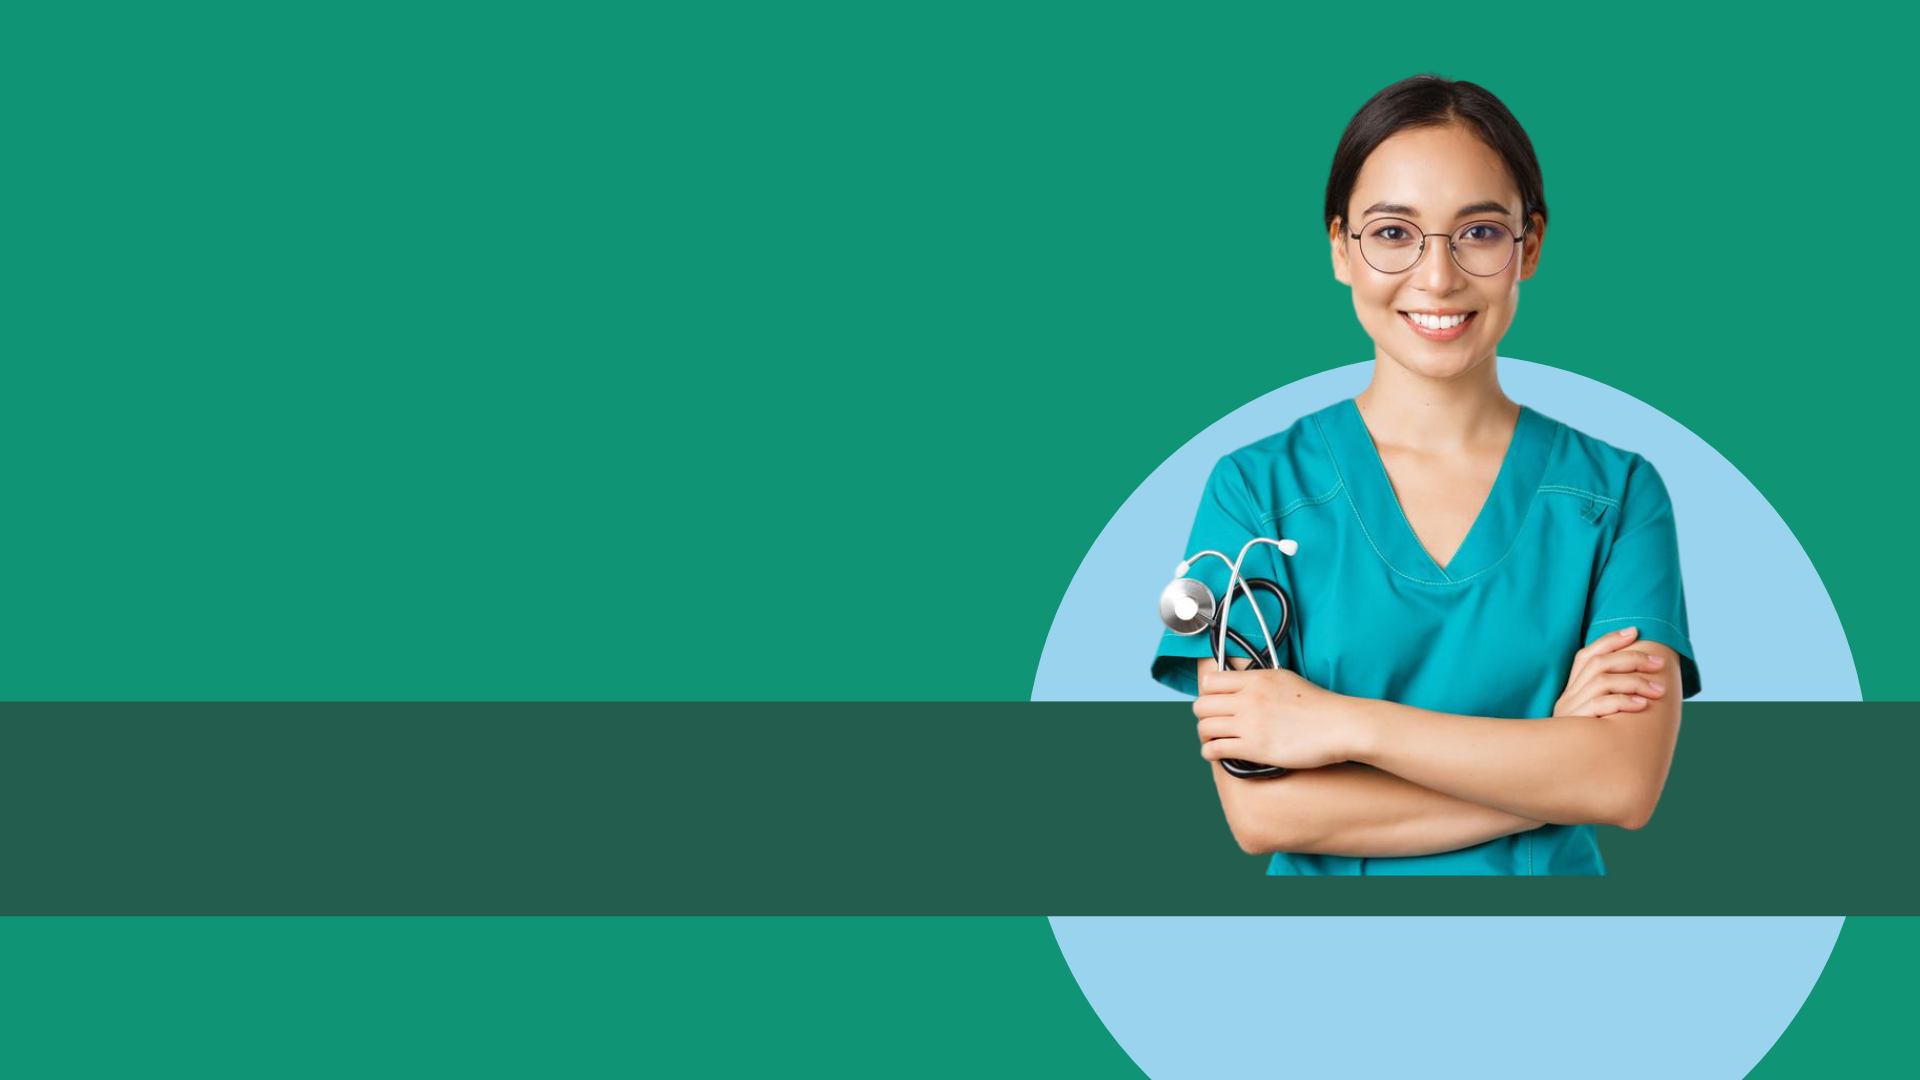
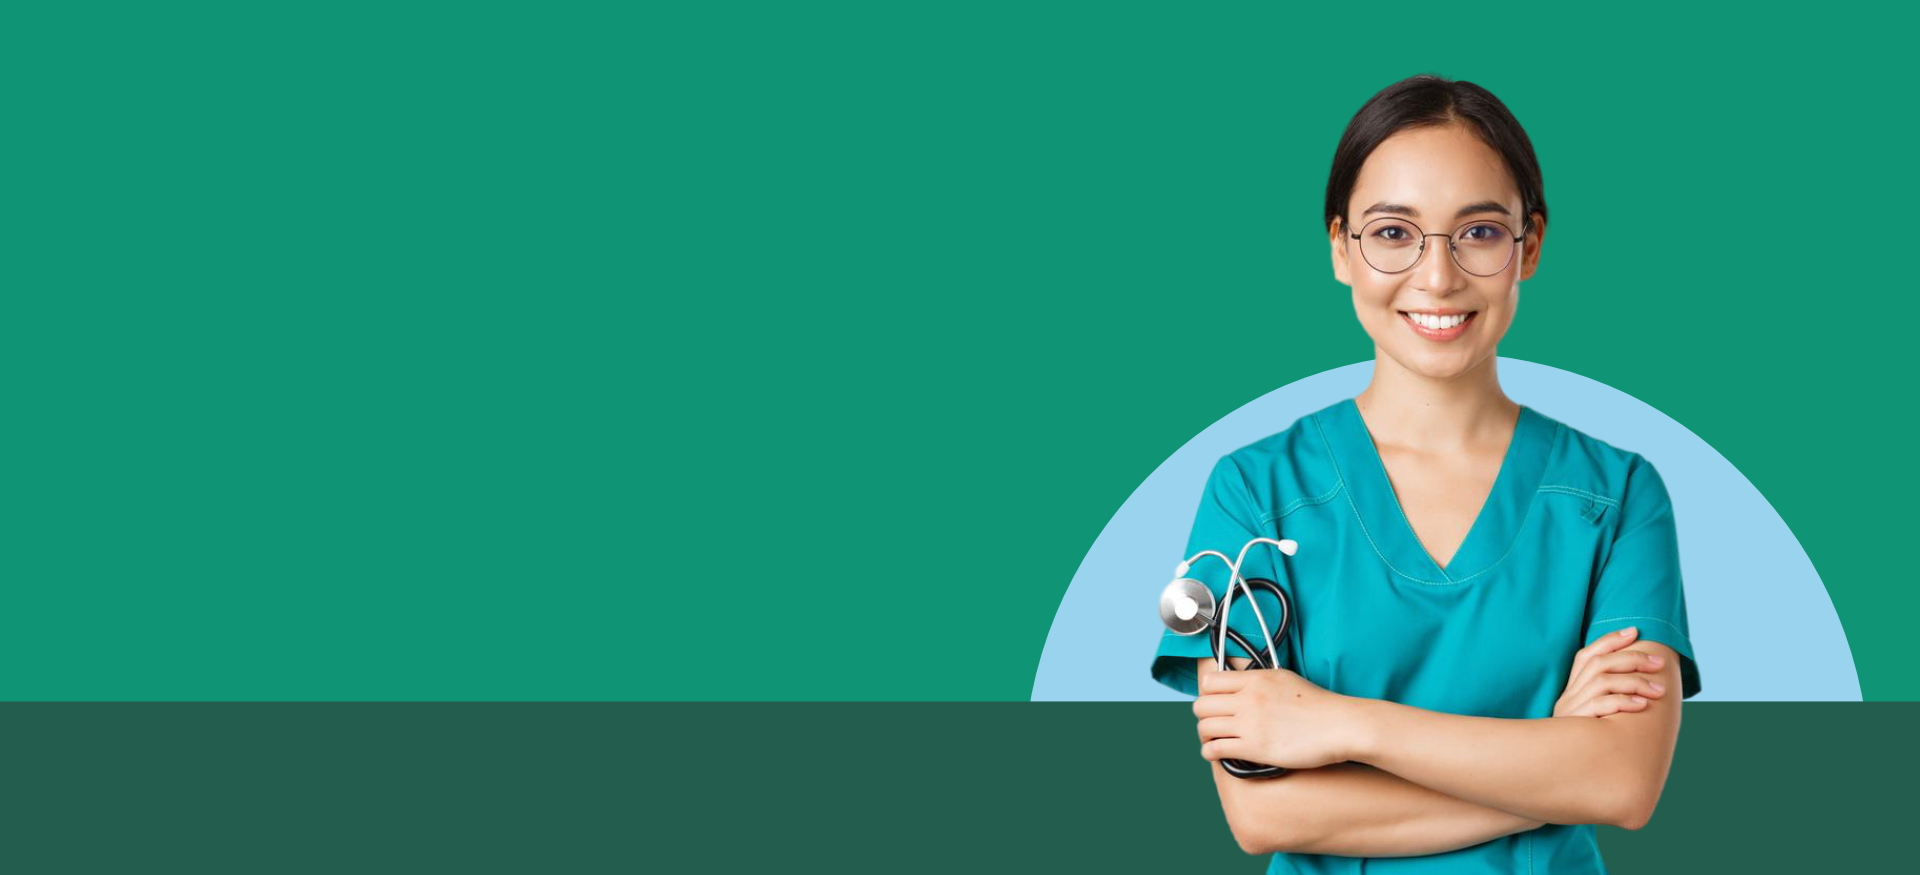
ajeitando home e pagpaciente

diff --git a/css/pagpaciente.css b/css/pagpaciente.css
@@ -4,10 +4,12 @@
     margin: 0;
     padding: 0;
     box-sizing: border-box;
+    
 }
 
 body {
     font-family: 'Vazirmatn';
+    width: 100vw;
 }
 
 .header {
@@ -95,13 +97,14 @@ body {
     margin: 2vw auto;
     text-align: center;  
     border-bottom: solid #244b42;
-    width: 20vw;
+    width: 100%;
     
 }
 
 .h2 h2 {
     font-weight: 900;
     font-size: 1.8em;
+    width: 100%;
 }
 
 .boneco {
@@ -122,50 +125,97 @@ body {
     margin: 1.5vw 1vw 1.5vw 1.5vw;
 }
 
-.enfermeira {
-    width: 40vw;
-    border: 3px solid #63B29F;
-    border-radius: 30px;
-    margin-left: 10vw;
+#enfermeiras{
+    width: 100vw;
     display: flex;
     justify-content: start;
     align-items: center;
-    
 }
+
+.enfermeira {
+    display: flex;
+    flex-direction: row;
+    justify-content: start;
+    align-items: center;
+    height: 8vw;
+    width: 40vw;
+    border: 3px solid #63B29F;
+    border-radius: 30px;
+    margin-left: 10vw; 
+}
+
+.enfermeira2 {
+    display: flex;
+    flex-direction: row;
+    justify-content: start;
+    align-items: center;
+    height: 8vw;
+    width: 40vw;
+    border: 3px solid #63B29F;
+    border-radius: 30px;
+    margin-left: 5vw;
+}
+
 
 .enfermeira img {
     position: relative;
     width: 5vw;
-    margin: 0.8vw;
+    margin: 1vw;
     border: 3px solid #244b42;
     
 }
 
-.coluna {
-    margin-left: 2vw;
-    display: flex;
-    flex-direction: column;
-    justify-content: start;
-    align-items: flex-start;
+.enfermeira2 img {
+    position: relative;
+    width: 5vw;
+    margin: 1vw;
+    border: 3px solid #244b42;
 }
 
+
 .enfermeira h4 {
-    width: 15vw;
+    width: 100%;
     font-size: 1.1em;
     height: 3vh;
+    margin-bottom: -1vw;
+}
+
+.enfermeira2 h4 {
+    width: 100%;
+    font-size: 1.1em;
+    height: 3vh;
+    margin-bottom: -1vw;
 }
 
 .enfermeira p {
-    margin-top: -1.4vw;
-    width: 15vw;
+    width: 100%;
     font-weight: 600;
     height: 3vh;
 }
 
+.enfermeira2 p {
+    width: 100%;
+    font-weight: 600;
+    height: 3vh;
+}
+
+
+
 .enfermeira button {
     color: #fff;
     width: 10vw;
-    margin-top: 0.1vw;
+    padding: 5px;
+    font-size: 0.75em;
+    background-color: #63B29F;
+    border: none;
+    outline: none;
+    border-radius: 30px;
+    cursor: pointer;
+}
+
+.enfermeira2 button {
+    color: #fff;
+    width: 10vw;
     padding: 5px;
     font-size: 0.75em;
     background-color: #63B29F;
@@ -183,4 +233,11 @@ body {
     text-align: center;
     background-color: #63B29F;
     border-radius: 20px;
+}
+.coluna {
+    margin-left: 2vw;
+    display: flex;
+    flex-direction: column;
+    justify-content: start;
+    align-items: flex-start;
 }

diff --git a/css/index.css b/css/index.css
@@ -72,28 +72,23 @@ a:active {
 }
 
 .logo-home{
-width: 250px;
+
 left: 9%;
 top: 3px;
 }
 
 .container-idosos{
-  min-width: 100vw;
   display: flex;
-  align-items: flex-start;
   margin-left: 14%;
   
 }
 .background-idosos {
-  margin-top: 4.5rem;
-  background-image: url('../images/fundinho.png');
-  background-repeat: no-repeat;
-  background-size: cover;
-  background-position: center center;
-  background-attachment: fixed;
-  min-width: 100vw;
-  height: 100%;
+  width: 100%;
+  height: 94vh;
+  background:  url('../images/fundinho.png');
+  transform: translateY(60px);
 }
+
 
 .background-idosos h3 {
   color: #ffff;
@@ -107,12 +102,13 @@ top: 3px;
 
 .container-dad {
   width: 38%;
-  height: 10%;
+  height: 5vw;
   background-color: #fff;
   border-radius: 40px;
   display: flex;
   margin-left: 16%;
   margin-top: 6%;
+  cursor: pointer;
 }
 
 .container-cuidador {
@@ -126,6 +122,7 @@ top: 3px;
   display: flex;
   justify-content: left;
   align-items: center;
+
 }
 
 .seta1 {
@@ -190,7 +187,6 @@ top: 3px;
   font-size: 1em;
   color: #1a1a0c;
   font-weight: 600;
-  border: none;
 }
 
 .container-local select {
@@ -205,13 +201,12 @@ top: 3px;
   font-size: 1em;
   color: #1a1a0c;
   font-weight: 600;
-  border: no;
 }
 
 .escrituras {
   display: flex;
   justify-content: center;
-  align-items: center;
+  align-items: baseline;
   width: 81vw;
   height: 10vw;
   margin-left: 8vw;
@@ -219,7 +214,7 @@ top: 3px;
 
 .escrituras div {
   width: 27vw;
-  margin-top: 13vw;
+  margin-top: 9.5vw;
   margin-left: -17vw;
 }
 
@@ -235,7 +230,8 @@ top: 3px;
   font-size: 1.3em;
   font-weight: 500;
   color: #fff;
-  margin-top: -1.5rem;
+  padding-left: 0.8vw;
+  text-align: start;
 }
 
 .escrituras img {
@@ -353,3 +349,4 @@ footer hr {
   height: 32px;
   cursor: pointer;
 }
+

diff --git a/html/pagpaciente.html b/html/pagpaciente.html
@@ -42,16 +42,17 @@
         </div>
         
         <div class="professional-list" id="professional-list"></div>
-
+        <div id="enfermeiras">
             <div class="enfermeira">
+
                 <img src="../images/enfermeira.png" alt="">
                 <div class="coluna">
                 <h4>Larissa Almeida</h4> <br>
                 <p>Geriatria - Alto grau de complexidade</p>
                 <button >SOLICITAR AGENDAMENTO</button>
                 </div>
-
-                <div class="enfermeira">
+                </div>
+                <div class="enfermeira2" class="professional-list" id="professional-list">
                     <img src="../images/geriatraM.jpg" alt="">
                     <div class="coluna">
                     <h4>Bruna Albuquerque</h4> <br>
@@ -59,16 +60,8 @@
                     <button >SOLICITAR AGENDAMENTO</button>
                     </div>
                 </div>
-
             </div>
-        </div>
-        
-        <div>
-        
-            
-        
-        </div>
-        
+
         <div class="footer">
            
             <h3>MAIS RESULTADOS</h3>

diff --git a/html/index.html b/html/index.html
@@ -2,7 +2,6 @@
 <html lang="pt-br">
   <head>
     <meta charset="UTF-8" />
-    <meta http-equiv="X-UA-Compatible" content="IE=edge" />
     <meta name="viewport" content="width=device-width, initial-scale=1.0" />
     <link
       rel="shortcut icon"
@@ -110,7 +109,7 @@
             <img src="../images/icone-lupa.png" alt="">
             </div>  
         </div>
-        <!-- <div class="escrituras">
+         <div class="escrituras">
           <div class="text1">
             <h3>24/7</h3>
             <p>Suporte online</p>
@@ -126,7 +125,7 @@
                 <p>Ipsum</p>
               </div>
               
-        </div> -->
+        </div>
       </div>
 
 

diff --git a/css/home3.css b/css/home3.css
@@ -1,7 +1,5 @@
 .vantagens {
     text-align: center;
-    height: 100%;
-    width: 100%;
     background-image:  url(../images/fundo.png);
     background-repeat: no-repeat;
     background-size: cover;
